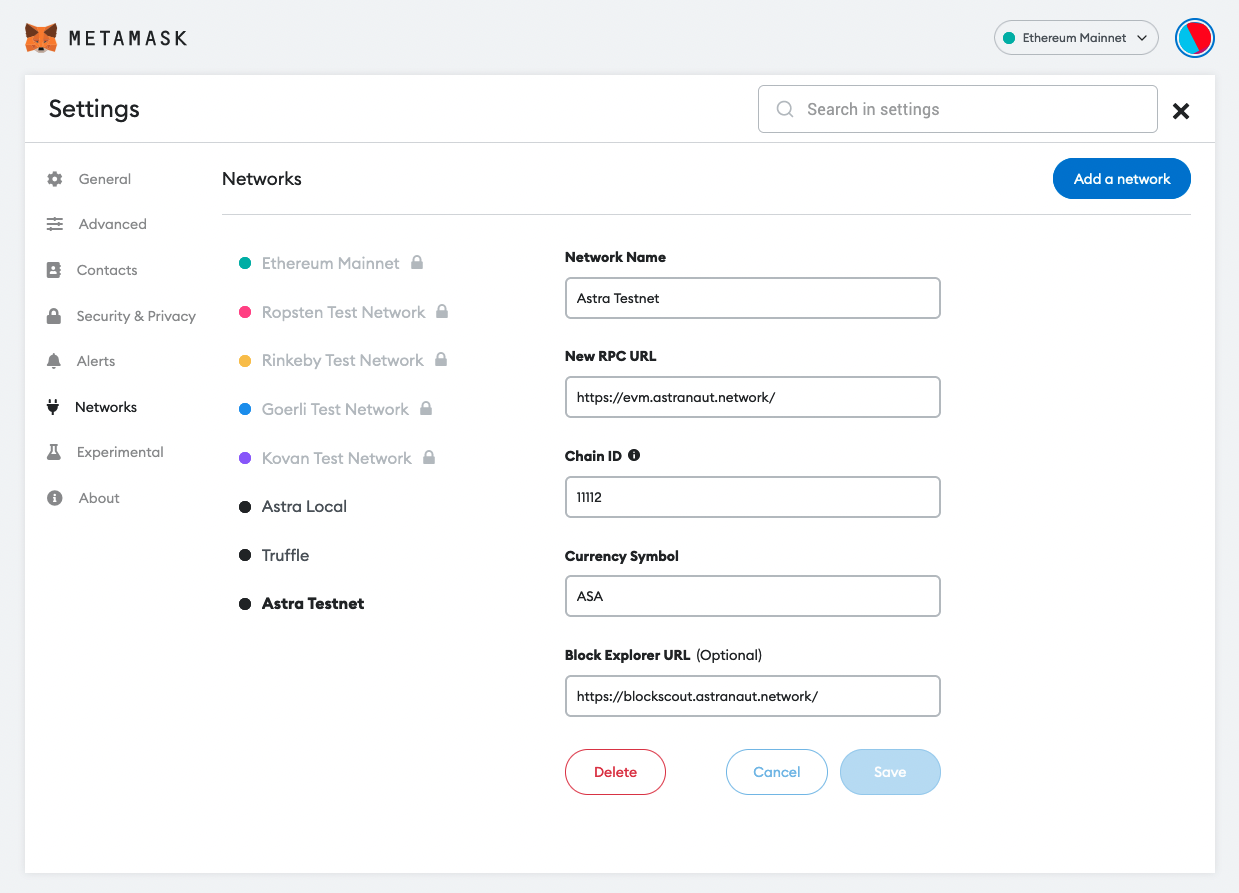
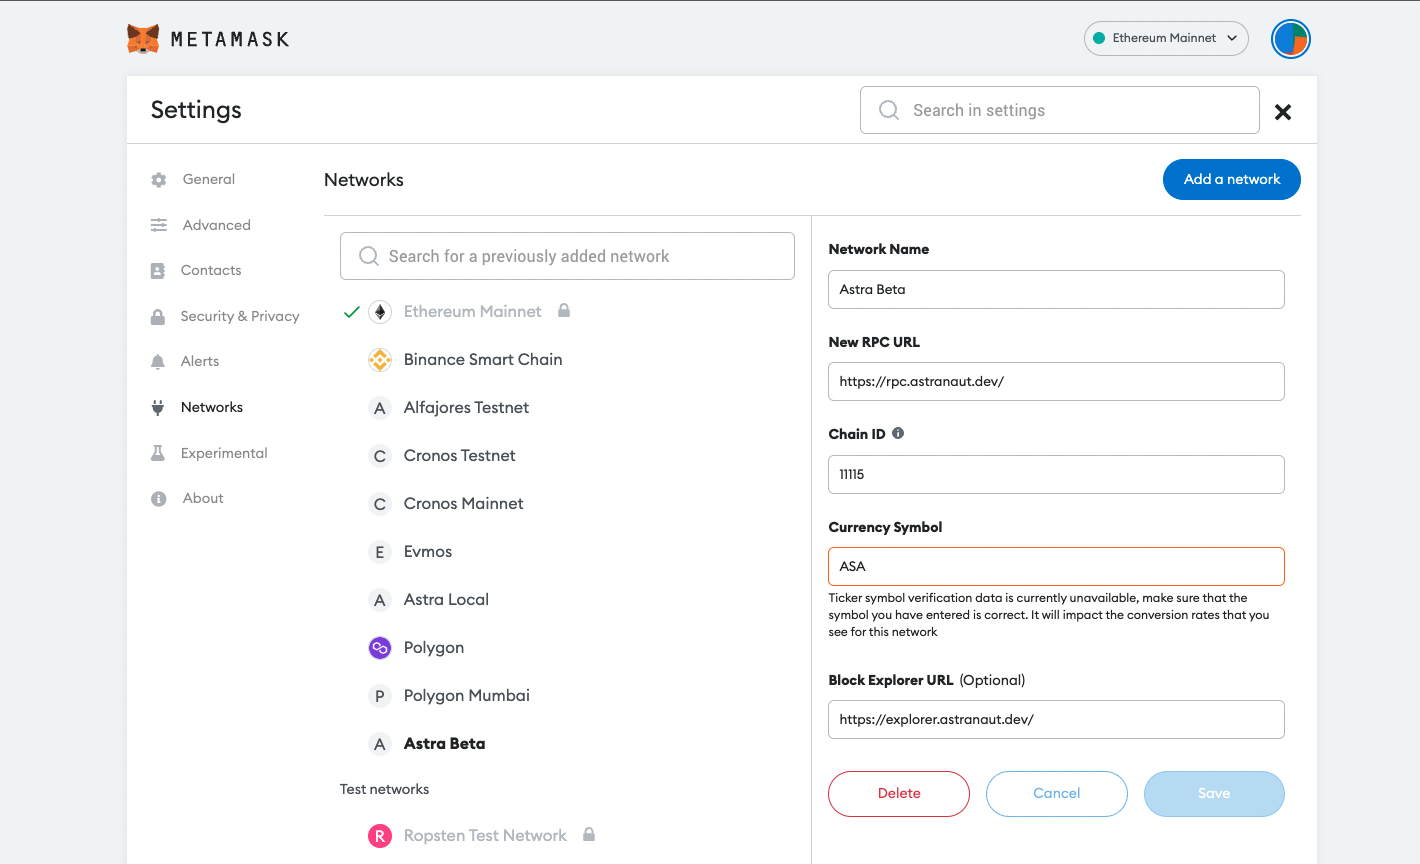
fix: update connect metamask

diff --git a/docs/.vuepress/theme/components/Footer.vue b/docs/.vuepress/theme/components/Footer.vue
@@ -4,11 +4,7 @@
       <div class="main">
         <div class="logo">
           <a href="/">
-            <img
-              class="footer-logo"
-              :src="$withBase('/astra.svg')"
-              alt="logo-icon-white"
-            />
+            <img class="footer-logo" :src="$withBase('/astra.svg')" alt="logo-icon-white" />
           </a>
         </div>
         <div class="navLinks">
@@ -54,16 +50,16 @@
           <div class="column">
             <h3>Explorer</h3>
             <div class="link">
-              <a href="https://blockscout.astranaut.network/">
+              <a href="https://explorer.astranaut.dev/">
                 Explorer
               </a>
             </div>
           </div>
         </div>
         <div class="socials">
-          <a target="_blank" rel="noopener noreferrer" href="https://www.twitter.com/AstraProtocol/">
+          <!-- <a target="_blank" rel="noopener noreferrer" href="https://www.twitter.com/AstraProtocol/">
             <img :src="$withBase('/social/twitter.svg')" alt="twitter" />
-          </a>
+          </a> -->
           <!-- <a target="_blank" rel="noopener noreferrer" href="https://www.facebook.com/CryptoComOfficial">
             <img :src="$withBase('/social/facebook.svg')" alt="facebook" />
           </a>
@@ -84,7 +80,7 @@
           <!-- <a target="_blank" rel="noopener noreferrer" href="https://discord.com/invite/pahqHz26q4">
             <img :src="$withBase('/social/discord.svg')" alt="discord" />
           </a> -->
-          <a target="_blank" rel="noopener noreferrer" href="https://t.me/AstraProtocol">
+          <a target="_blank" rel="noopener noreferrer" href="https://t.me/AstraOfficialChannel">
             <img :src="$withBase('/social/telegram.svg')" alt="telegram" />
           </a>
           <a target="_blank" rel="noopener noreferrer" href="https://github.com/AstraProtocol/astra">

diff --git a/docs/getting-started/metamask.md b/docs/getting-started/metamask.md
@@ -71,10 +71,10 @@ Let’s set up!
 ### Testnet
 
 <b>Network Name:</b> Astra Testnet <br />
-<b>New RPC URL:</b> [https://evm.astranaut.network/](https://evm.astranaut.network/) <br />
-<b>ChainID:</b> 11112 <br />
+<b>New RPC URL:</b> [https://rpc.astranaut.dev/](https://rpc.astranaut.dev/) <br />
+<b>ChainID:</b> 11115 <br />
 <b>Symbol:</b> ASA <br />
-<b>Block Explorer URL:</b> [https://blockscout.astranaut.network/](https://blockscout.astranaut.network/) <br />
+<b>Block Explorer URL:</b> [https://explorer.astranaut.dev/](https://explorer.astranaut.dev/) <br />
 
 ![Network Info](./assets/metamask/settings-5.png)
 <h4 align = "center"><i>Network Info</i></h4>
@@ -89,3 +89,14 @@ After saving the network config, we should be able to see the token in your addr
 Note that the address format in **Astra** is in there form of bech32 ```astra...```
 
 You can convert your address from ETH to Astra and vice versa at [here](https://astra-utilities.vercel.app/)
+
+
+## Astra Faucet
+Get testnet token at [here](https://faucet.astranaut.dev/)
+
+![Faucet](./assets/metamask/faucet.png)
+
+## Astra Explorer
+After creating a smart contract or interacting with it, you can go [here](https://explorer.astranaut.dev/) and find some helpful information (like etherscan, bscscan…)
+
+![Explorer](./assets/metamask/explorer.png)
